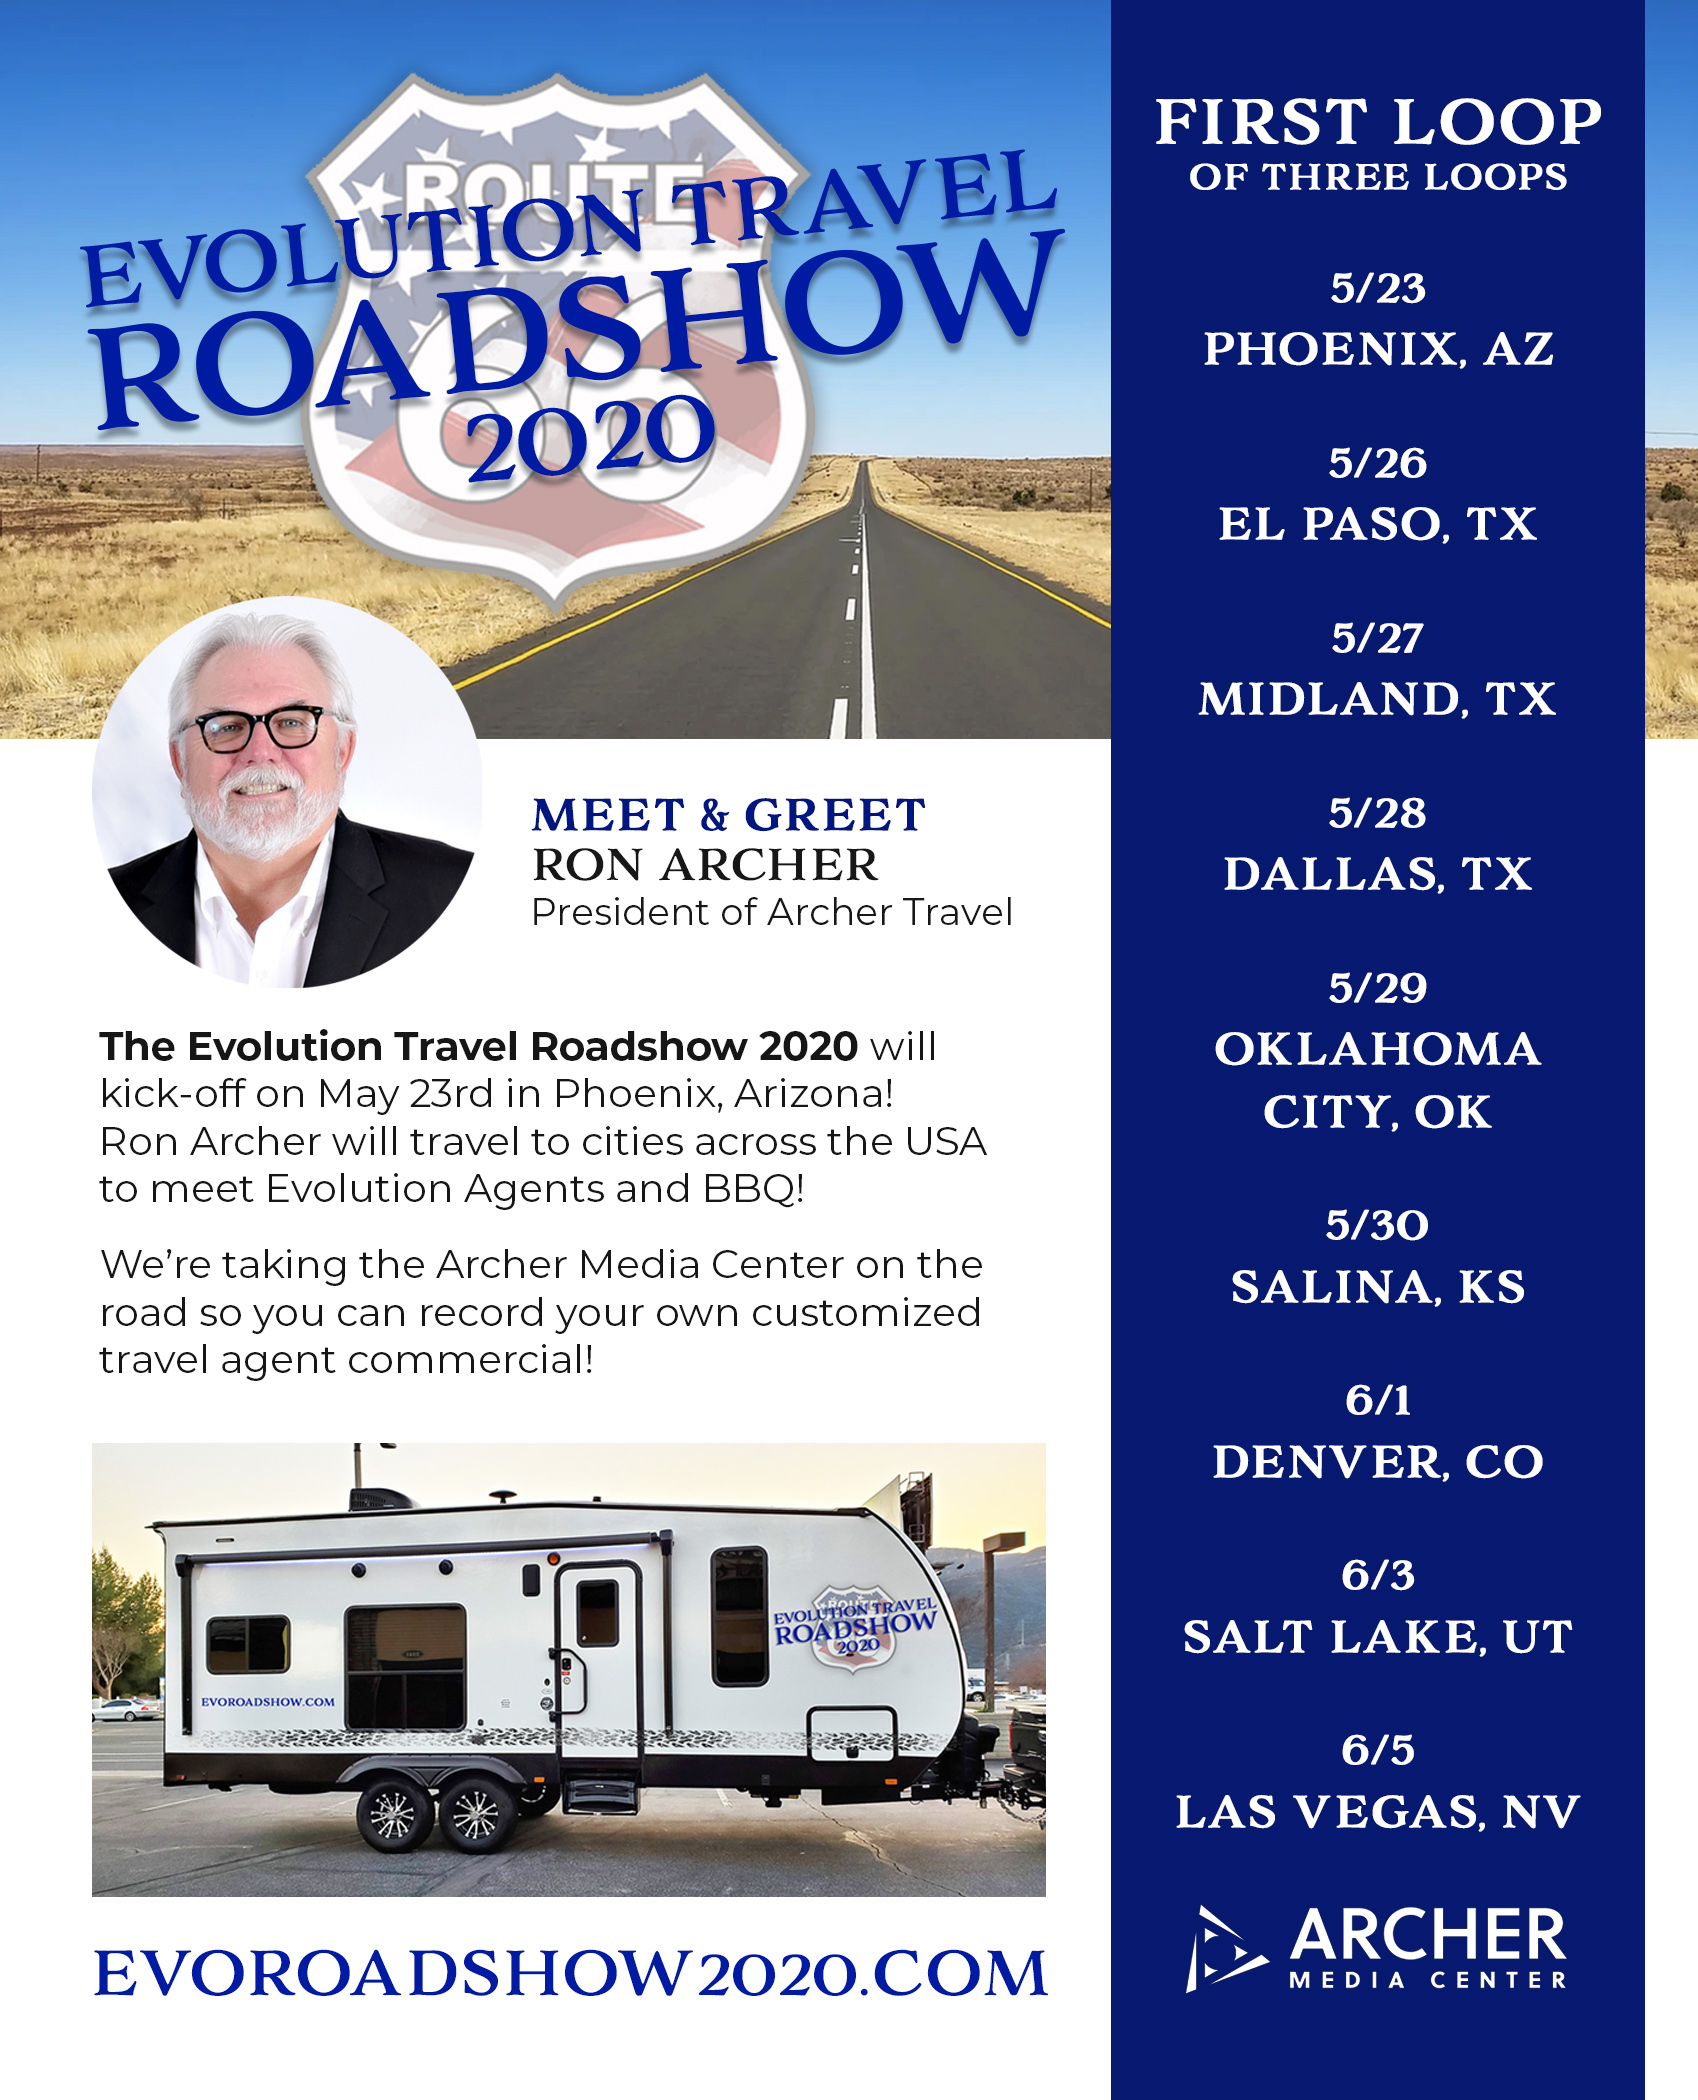
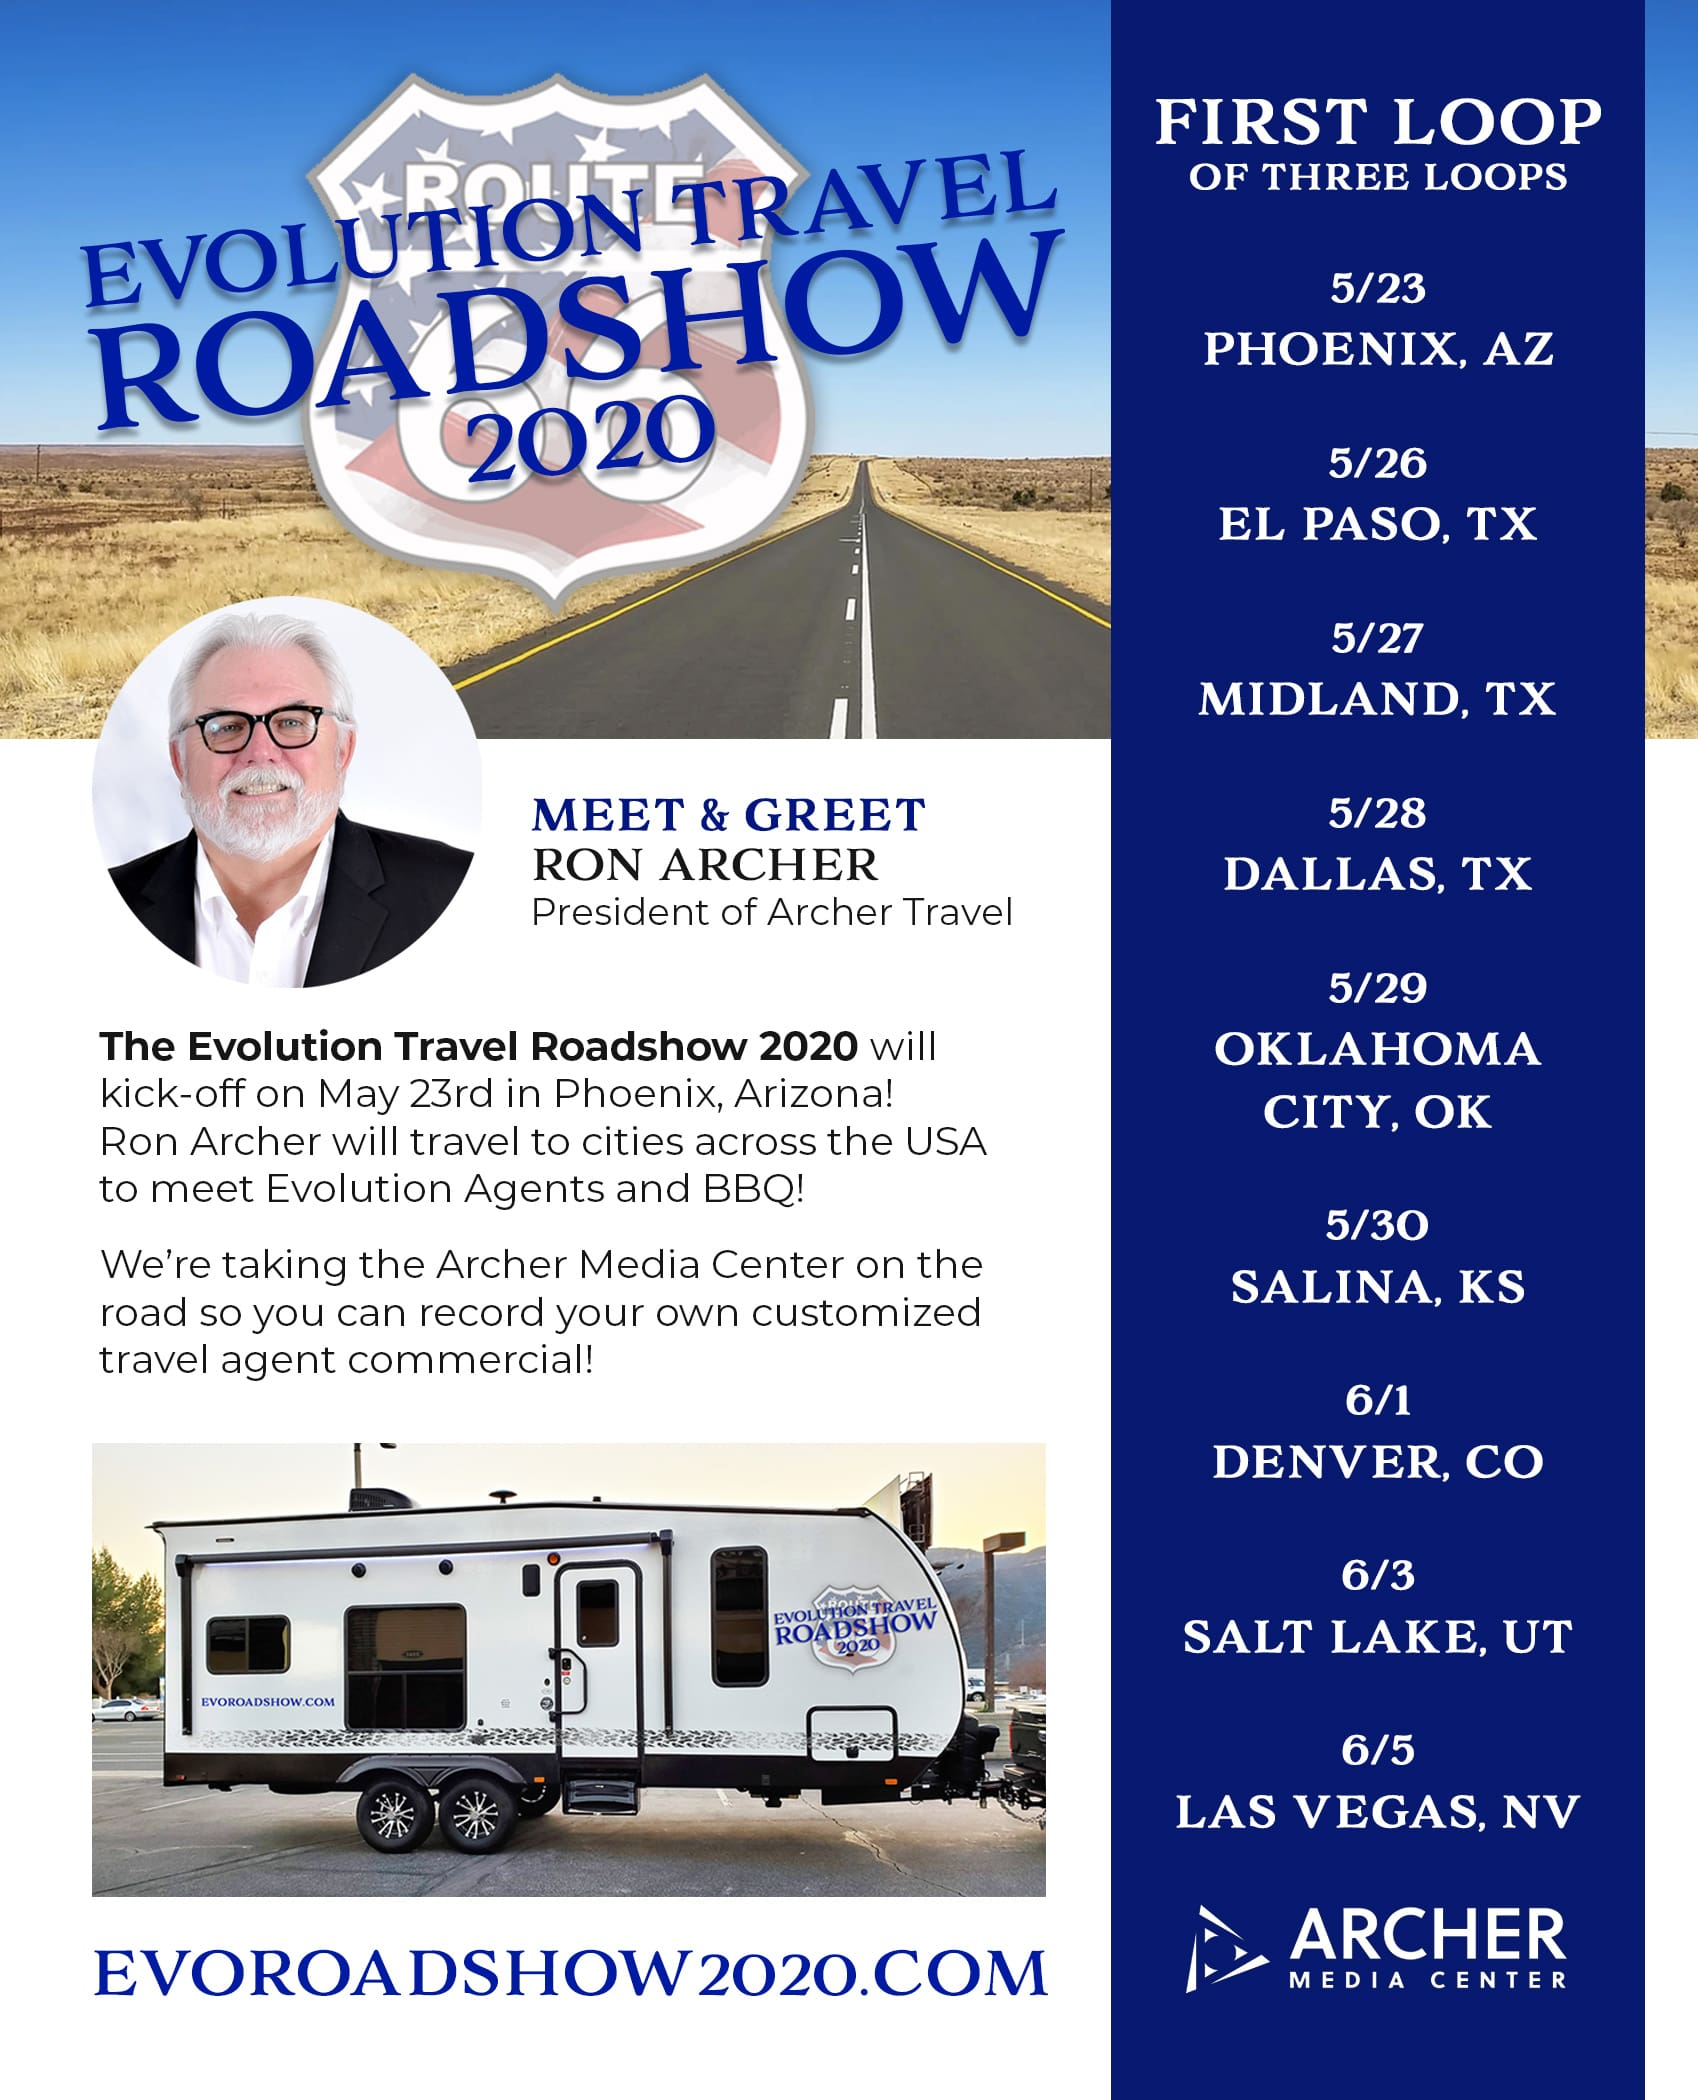
compress all images

diff --git a/index.html b/index.html
@@ -101,7 +101,7 @@
 
         </p>
         <p>
-          <a  href="https://www.facebook.com/evoroadshow2020/" class="btn btn-danger btn-lg" role="button">Learn More &raquo;</a>
+          <a  href="https://www.facebook.com/evoroadshow2020/" target="_blank" class="btn btn-danger btn-lg" role="button">Learn More &raquo;</a>
         </p>
       
       </div>
@@ -137,6 +137,8 @@
         <h3 style="color: #071970; margin-bottom: 50px" > First Loop of Three Loops </h3>
 
         <hr id="dates2" width="25%" style="border: 1px solid #a5170f" />
+        <p style="color: #071970; font-size: 18px"> Locations will be annouced prior to arrival in each city. Check the website or facebook  for updates. </p>
+
           <div class="row">
               <div class="column" id="columnOne" >
                 <h2>Dates</h2>
